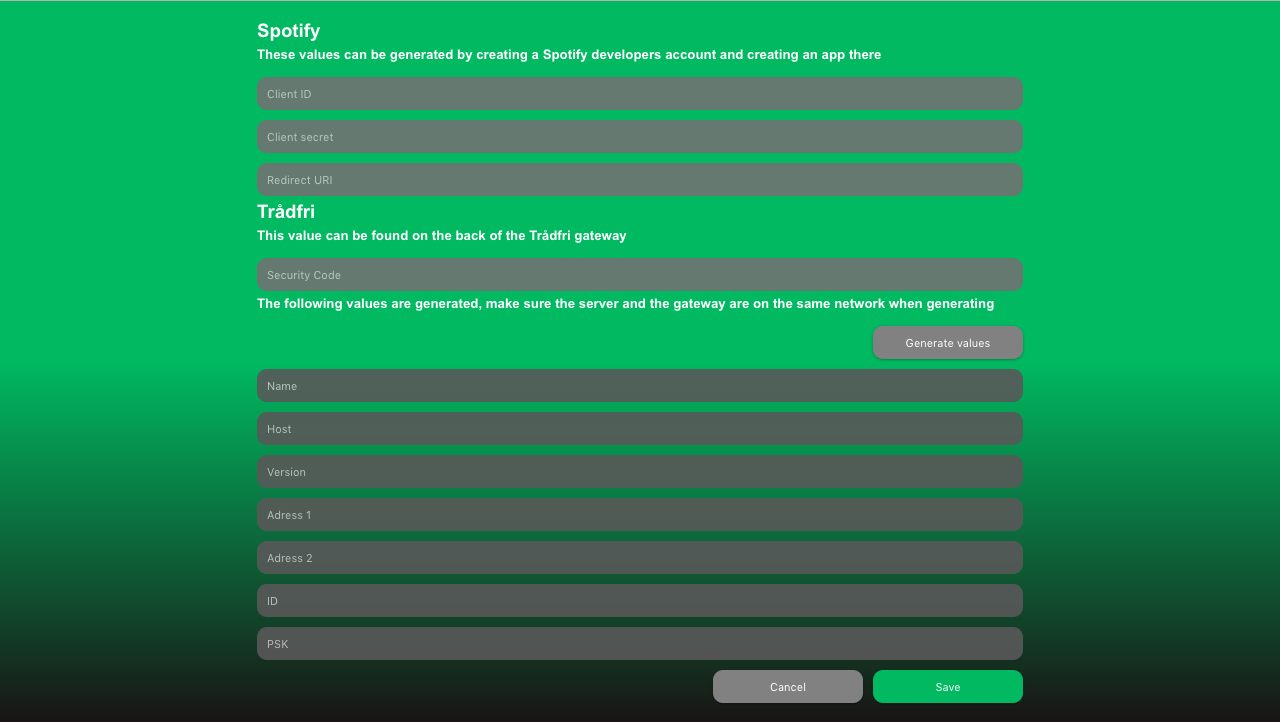
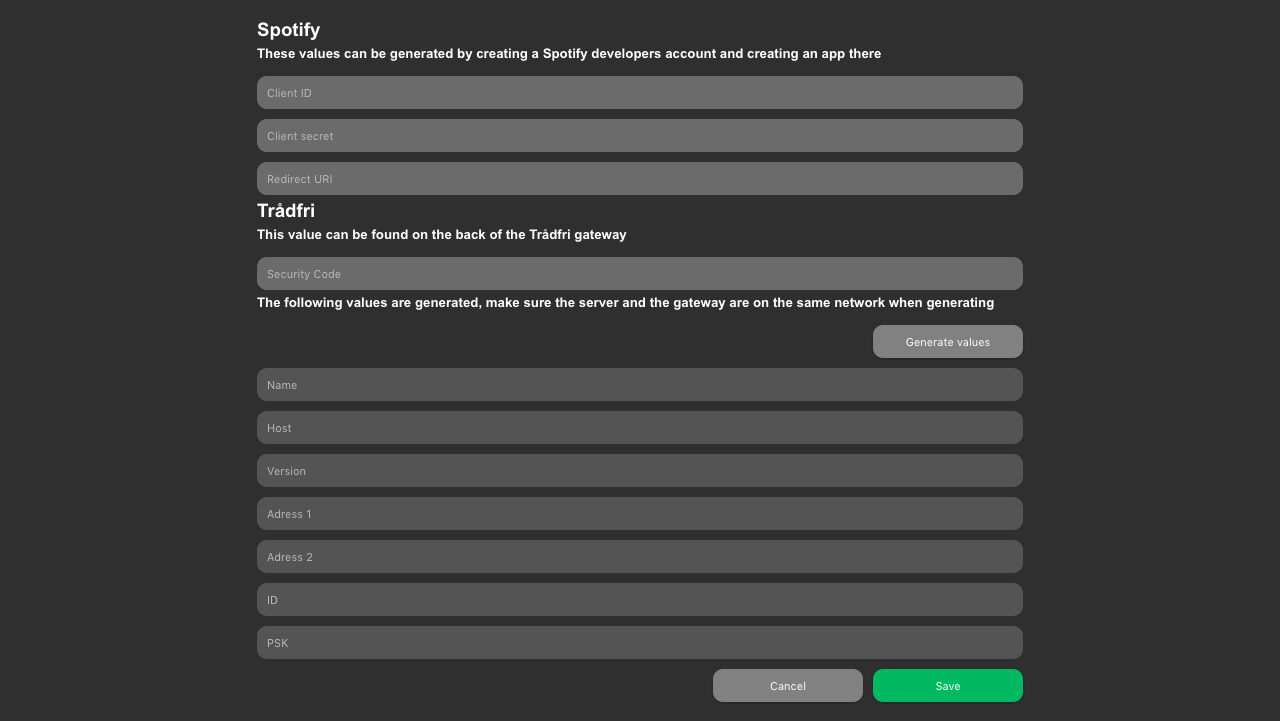
Updated UI

diff --git a/spotify-tradfri-frontend/src/Playing.js b/spotify-tradfri-frontend/src/Playing.js
@@ -38,8 +38,7 @@ class Playing extends Component {
                 </div>
                 <div id="details-container">
                     <h1 id="title">{this.state.title ? this.state.title : "Nothing currently playing"}</h1>
-                    <p id="artist">{this.state.artist}</p>
-                    <p id="album">{this.state.album}</p>
+                    <p id="artist">{this.state.artist} - {this.state.album}</p>
                 </div>
             </div>
         );
@@ -84,12 +83,13 @@ class Playing extends Component {
      * @param hex
      */
     setAndSendColor(hex) {
-        let body = document.getElementsByTagName('body')[0];
+        let cover = document.getElementById('album-cover');
 
         if (this.state.hex !== hex) {
             fetch('http://localhost:8080/color/' + hex.split("#")[1]);
 
-            body.style.background = "linear-gradient(to bottom, " + hex + ", " + hex + ", #191414)";
+            cover.style.boxShadow = "1px 1px 150px " + hex;
+            // body.style.background = "linear-gradient(to bottom, " + hex + ", " + hex + ", #191414)";
 
             this.setState({
                 hex: hex

diff --git a/spotify-tradfri-frontend/src/Home.css b/spotify-tradfri-frontend/src/Home.css
@@ -1,6 +1,6 @@
 .container {
     box-sizing: border-box;
-    background-color: rgba(50, 50, 50, 0.3);
+    background-color: #484848;
     border-radius: 10px;
 
     margin: 0;
@@ -9,7 +9,7 @@
     left: 50%;
     transform: translate(-50%, -50%);
 
-    box-shadow: 0 1px 3px rgba(0, 0, 0, 0.3);
+    box-shadow: 0 1px 30px #1d1d1d;
 
     width: 300px;
     height: 500px;
@@ -49,7 +49,7 @@
 .container #configure {
     margin: 10px 0 0 10%;
     padding-top: 13px;
-    background-color: #535052;
+    background-color: #696568;
 }
 
 .container .button img {

diff --git a/spotify-tradfri-frontend/src/App.css b/spotify-tradfri-frontend/src/App.css
@@ -8,7 +8,7 @@ html, body {
 body {
     height: 100vh;
 
-    background: linear-gradient(to bottom, #1db954, #1db954, #191414);
+    background: #2f2f2f;
 }
 
 .float-left {

diff --git a/spotify-tradfri-frontend/src/Playing.css b/spotify-tradfri-frontend/src/Playing.css
@@ -15,6 +15,8 @@
 #album-cover {
     width: 60%;
     margin: 5% 20% 0 20%;
+
+    border-radius: 20px;
 }
 
 #details-container {
